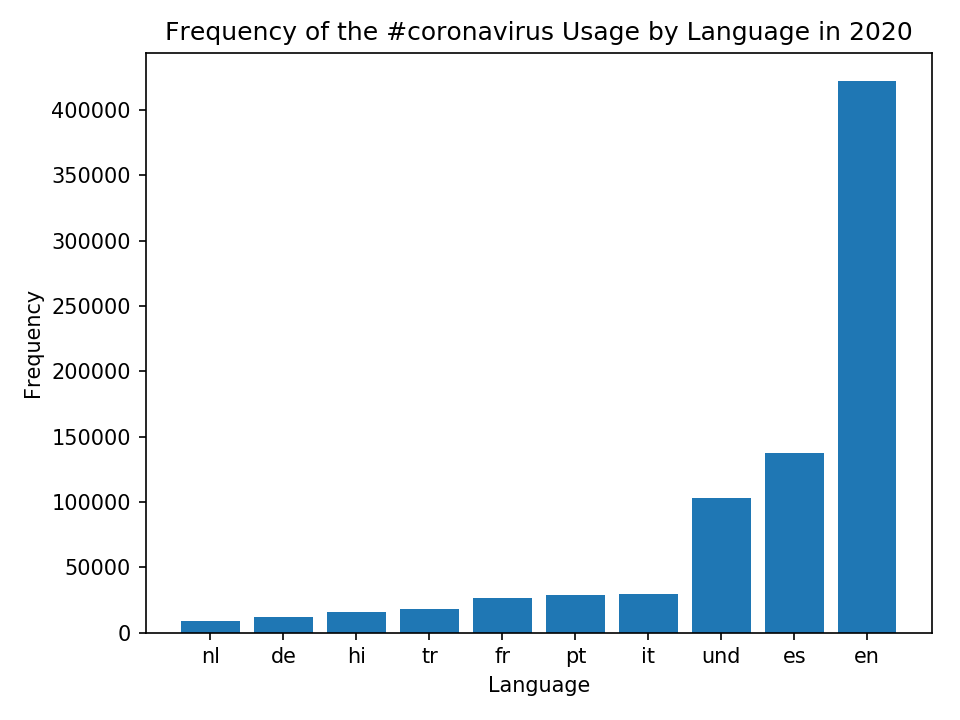
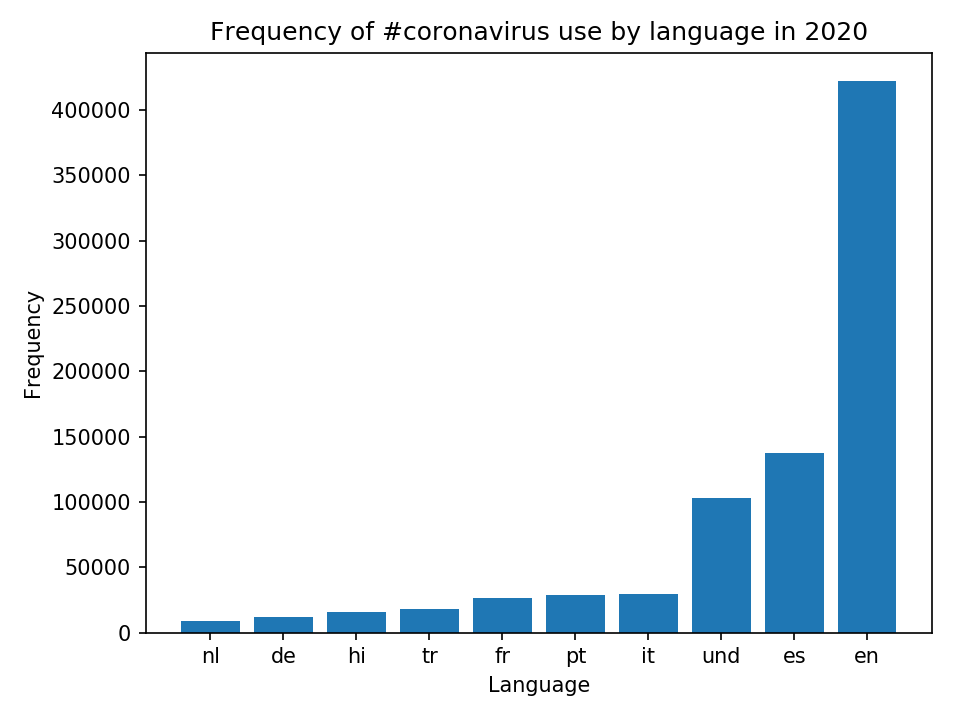
test2

Changed region(s): [[0.1562, 0.0306, 0.9688, 0.0611]]

diff --git a/src/visualize.py b/src/visualize.py
@@ -50,7 +50,7 @@ fig, ax = plt.subplots()
 plt.bar(range(len(cat)),val, align='center')
 plt.xlabel('Language')
 plt.ylabel('Frequency')
-ax.set_title('Frequency of the #coronavirus Usage by Language in 2020')
+ax.set_title('Frequency of #coronavirus use by language in 2020')
 plt.xticks(range(len(cat)), cat)
 plt.tight_layout()
 covidfreqlang2020_png = 'covidfreqlang2020.png'
